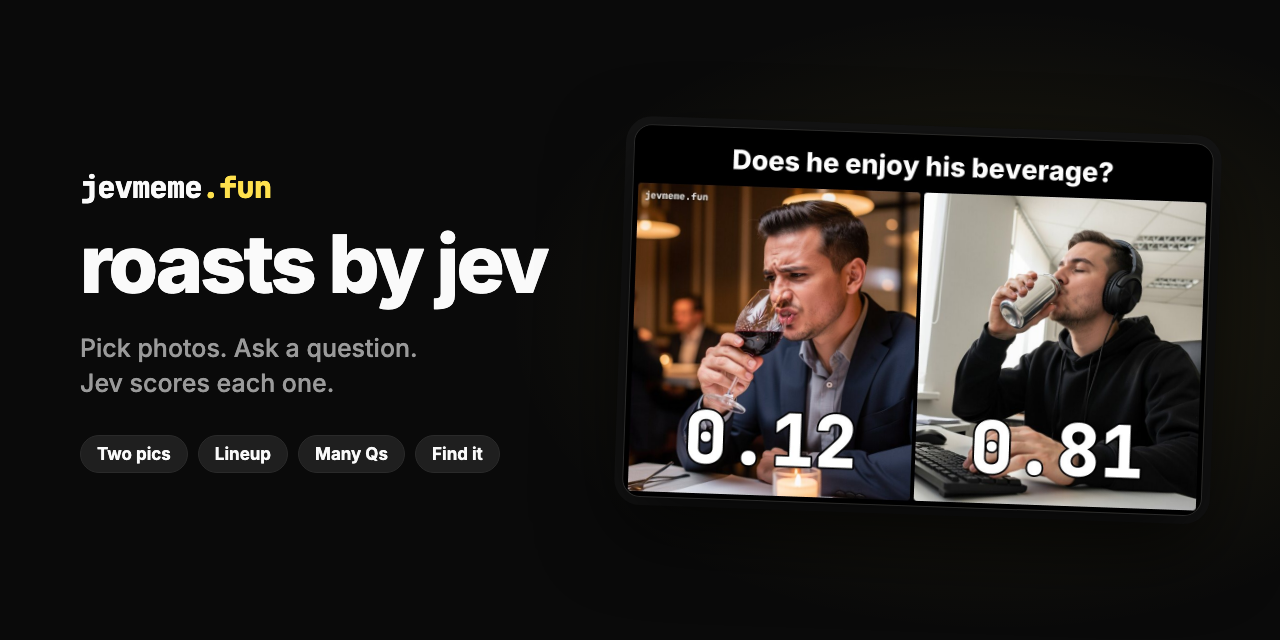
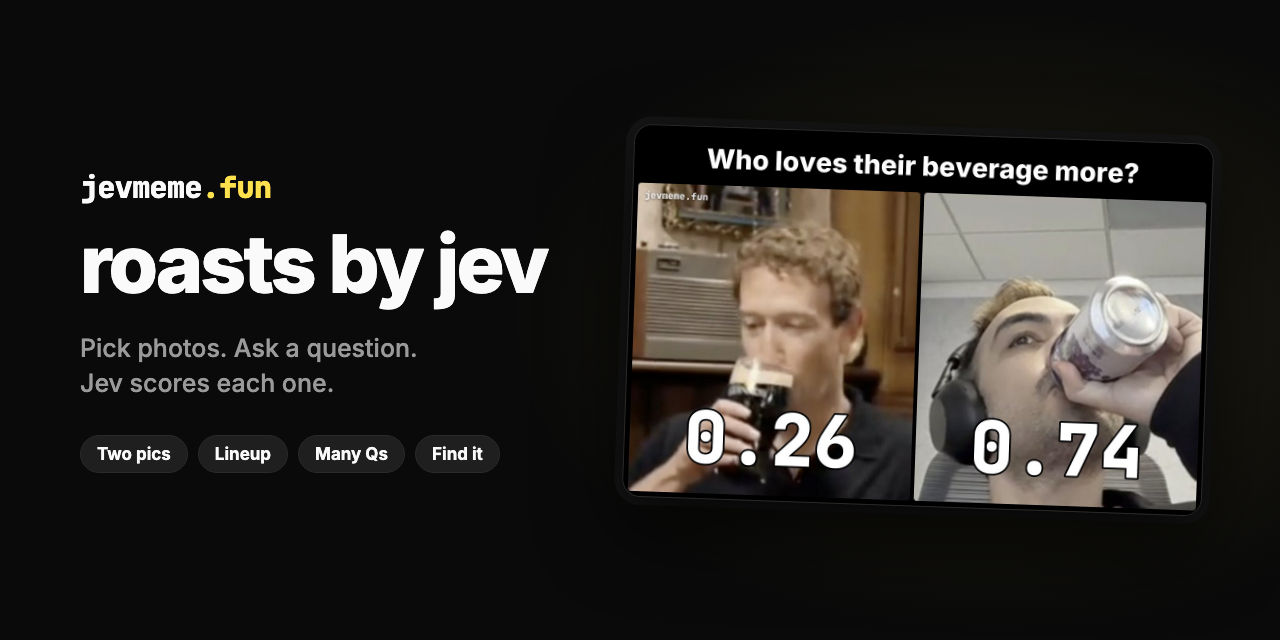
Pick one mode: compare all photos in one Choice, averaged over both orders
Real beverage photos from the original meme, comparative examples and ideas,
refreshed banner and link preview.

Changed region(s): [[0.4688, 0.2188, 0.9688, 0.8125]]

diff --git a/components/studio.tsx b/components/studio.tsx
@@ -3,7 +3,16 @@
 import Image from "next/image";
 import Link from "next/link";
 import { useEffect, useRef, useState } from "react";
-import { FORMAT_IDS, FORMATS, MAX_QUESTION_LENGTH, memeTitle, type FormatId } from "@/lib/formats";
+import {
+  defaultMode,
+  FORMAT_IDS,
+  FORMATS,
+  hasModes,
+  MAX_QUESTION_LENGTH,
+  memeTitle,
+  type FormatId,
+  type Mode,
+} from "@/lib/formats";
 import { prepPhoto } from "@/lib/prep";
 import { PRESETS, QUESTION_BANK, SAMPLE_PHOTOS, samplePath, SPOT_BANK, type Preset } from "@/lib/samples";
 import { FormatGlyph } from "./format-glyph";
@@ -25,6 +34,8 @@ export function Studio({ initial }: { initial?: Shown | "loading" }) {
   const [format, setFormat] = useState<FormatId>("versus");
   const [photos, setPhotos] = useState<(Photo | null)[]>([null, null]);
   const [questions, setQuestions] = useState<string[]>([""]);
+  // null = follow the question's wording; set once the user taps a mode.
+  const [modeChoice, setModeChoice] = useState<Mode | null>(null);
   const [picking, setPicking] = useState<number | null>(null);
   const [ideas, setIdeas] = useState<{ slot: number; list: string[] } | null>(null);
   const [busy, setBusy] = useState(false);
@@ -39,6 +50,7 @@ export function Studio({ initial }: { initial?: Shown | "loading" }) {
   const spec = FORMATS[format];
   const filled = photos.filter((p): p is Photo => p !== null);
   const asked = questions.map((q) => q.trim()).filter(Boolean);
+  const mode: Mode = modeChoice ?? defaultMode(asked[0] ?? "");
   const ready = filled.length >= spec.minImages && asked.length > 0 && !busy;
 
   function switchFormat(next: FormatId) {
@@ -49,13 +61,14 @@ export function Studio({ initial }: { initial?: Shown | "loading" }) {
     setError(null);
   }
 
-  async function create(f: FormatId, ps: Photo[], qs: string[]) {
+  async function create(f: FormatId, ps: Photo[], qs: string[], m: Mode) {
     setBusy(true);
     setError(null);
     try {
       const body = new FormData();
       body.set("format", f);
       body.set("questions", JSON.stringify(qs));
+      if (hasModes(f)) body.set("mode", m);
       for (const p of ps) {
         if (p.kind === "sample") body.append("photo", `sample:${p.id}`);
         else body.append("photo", p.blob, "photo.jpg");
@@ -80,7 +93,8 @@ export function Studio({ initial }: { initial?: Shown | "loading" }) {
     setFormat(preset.format);
     setPhotos(Array.from({ length: f.maxImages }, (_, i) => ps[i] ?? null));
     setQuestions(preset.questions);
-    void create(preset.format, ps, preset.questions);
+    setModeChoice(null);
+    void create(preset.format, ps, preset.questions, defaultMode(preset.questions[0]));
   }
 
   function setPhoto(slot: number, photo: Photo | null) {
@@ -255,7 +269,7 @@ export function Studio({ initial }: { initial?: Shown | "loading" }) {
                   onChange={(e) => setQuestion(i, e.target.value)}
                   onFocus={() => showIdeas(i)}
                   onBlur={() => setIdeas(null)}
-                  onKeyDown={(e) => e.key === "Enter" && ready && create(format, filled, asked)}
+                  onKeyDown={(e) => e.key === "Enter" && ready && create(format, filled, asked, mode)}
                   placeholder={i === 0 ? spec.placeholder : "Another question?"}
                   maxLength={MAX_QUESTION_LENGTH}
                   enterKeyHint="go"
@@ -312,13 +326,32 @@ export function Studio({ initial }: { initial?: Shown | "loading" }) {
           )}
         </div>
 
+        {hasModes(format) && (
+          <div role="radiogroup" aria-label="Scoring" className="grid grid-cols-2 gap-1 rounded-2xl bg-surface-2 p-1">
+            {(["each", "pick"] as const).map((m) => (
+              <button
+                key={m}
+                type="button"
+                role="radio"
+                aria-checked={mode === m}
+                onClick={() => setModeChoice(m)}
+                className={`h-9 rounded-xl text-sm font-semibold transition ${
+                  mode === m ? "bg-text text-bg" : "text-muted hover:text-text"
+                }`}
+              >
+                {m === "each" ? "Rate each" : "Pick one"}
+              </button>
+            ))}
+          </div>
+        )}
+
         {error && (
           <p role="alert" className="text-sm text-danger">
             {error}
           </p>
         )}
 
-        <Button variant="primary" size="lg" disabled={!ready} onClick={() => create(format, filled, asked)}>
+        <Button variant="primary" size="lg" disabled={!ready} onClick={() => create(format, filled, asked, mode)}>
           {busy ? (
             <>
               <span className="size-4 animate-spin rounded-full border-2 border-current/30 border-t-current" />

diff --git a/lib/jev.ts b/lib/jev.ts
@@ -1,6 +1,6 @@
 import "server-only";
-import { box, image, noul, TypeSafeClient } from "@typesafe-ai/sdk";
-import type { Box, FormatId } from "./formats";
+import { box, choice, image, noul, TypeSafeClient, type Image } from "@typesafe-ai/sdk";
+import type { Box, FormatId, Mode } from "./formats";
 
 // jev-preview is Jev 1.14, the only model that answers Box questions.
 export const MODEL = "jev-preview";
@@ -21,8 +21,26 @@ export type Judgment = {
   box?: { edges: Box; confidence: number | null };
 };
 
+/** One Choice across every photo; returns P(photo i) in the given order. */
+async function pickOnce(images: Image[], question: string) {
+  const name = (i: number) => `photo_${i + 1}`;
+  const res = await jev().systemOne({
+    model: MODEL,
+    state: Object.fromEntries(images.map((img, i) => [name(i), img])),
+    questions: {
+      q: choice(question, Object.fromEntries(images.map((_, i) => [name(i), `The one in \`${name(i)}\`.`]))),
+    },
+  });
+  return { model: res.model, probs: images.map((_, i) => res.answers.q.probabilities[name(i)] ?? 0) };
+}
+
 /** Ask Jev about JPEG/PNG bytes; the shape of the answer depends on the format. */
-export async function judge(format: FormatId, photos: Uint8Array[], questions: string[]): Promise<Judgment> {
+export async function judge(
+  format: FormatId,
+  photos: Uint8Array[],
+  questions: string[],
+  mode: Mode = "each",
+): Promise<Judgment> {
   const images = photos.map((bytes) => image(bytes));
 
   if (format === "spot") {
@@ -44,7 +62,15 @@ export async function judge(format: FormatId, photos: Uint8Array[], questions: s
     return { model: res.model, scores: questions.map((_, i) => res.answers[`q${i}`].noul) };
   }
 
-  // versus/lineup: judge each photo on its own so one can't sway another.
+  if (mode === "pick") {
+    // Jev leans toward photos by position, so ask in both orders and average.
+    const reversed = [...images].reverse();
+    const [fwd, rev] = await Promise.all([pickOnce(images, questions[0]), pickOnce(reversed, questions[0])]);
+    const n = images.length;
+    return { model: fwd.model, scores: fwd.probs.map((p, i) => (p + rev.probs[n - 1 - i]) / 2) };
+  }
+
+  // versus/lineup "each": judge each photo on its own so one can't sway another.
   const results = await Promise.all(
     images.map((photo) =>
       jev().systemOne({

diff --git a/lib/samples.ts b/lib/samples.ts
@@ -1,9 +1,10 @@
 import type { FormatId } from "./formats";
 
-// Bundled photos (public/samples, made by scripts/gen-samples.mts).
+// Bundled photos (public/samples). Most come from scripts/gen-samples.mts; the
+// beverage pair is cropped from the original meme that inspired this app.
 export const SAMPLE_PHOTOS = [
-  { id: "soda-guy", alt: "Man chugging a soda" },
-  { id: "wine-sip", alt: "Man sipping wine" },
+  { id: "stout-sip", alt: "Man sipping a stout" },
+  { id: "can-chug", alt: "Man chugging a can" },
   { id: "dog-ball", alt: "Dog with a ball" },
   { id: "raccoon-trash", alt: "Raccoon in a trash can" },
   { id: "hotdog", alt: "Hot dog" },
@@ -34,13 +35,17 @@ export type Preset = {
 
 // One-tap examples shown first on the home page.
 export const PRESETS: Preset[] = [
-  { format: "versus", photos: ["wine-sip", "soda-guy"], questions: ["Does he enjoy his beverage?"] },
+  { format: "versus", photos: ["stout-sip", "can-chug"], questions: ["Who loves their beverage more?"] },
   { format: "versus", photos: ["raccoon-trash", "dog-ball"], questions: ["Is this a good boy?"] },
-  { format: "versus", photos: ["hotdog", "taco"], questions: ["Is this a sandwich?"] },
+  { format: "versus", photos: ["hotdog", "taco"], questions: ["Which one is more of a sandwich?"] },
   { format: "versus", photos: ["ladder", "harness"], questions: ["Is this OSHA compliant?"] },
   { format: "versus", photos: ["sneaker", "shoe-cake"], questions: ["Is this cake?"] },
   { format: "versus", photos: ["cat-keyboard", "dog-tie"], questions: ["Ready for Monday?"] },
-  { format: "lineup", photos: ["goose", "duckling", "sloth", "raccoon-trash"], questions: ["Would this win a fight?"] },
+  {
+    format: "lineup",
+    photos: ["goose", "duckling", "sloth", "raccoon-trash"],
+    questions: ["Which would win in a fight?"],
+  },
   {
     format: "vibes",
     photos: ["raccoon-trash"],
@@ -51,6 +56,11 @@ export const PRESETS: Preset[] = [
 
 // Prompts for "Need an idea?".
 export const QUESTION_BANK: string[] = [
+  "Who loves their beverage more?",
+  "Which would win in a fight?",
+  "Who has more aura?",
+  "Which one is more of a sandwich?",
+  "Who is more likely to text back?",
   "Does he enjoy his beverage?",
   "Is this a good boy?",
   "Is this a sandwich?",

diff --git a/app/api/meme/route.ts b/app/api/meme/route.ts
@@ -1,6 +1,6 @@
 import { createHash } from "node:crypto";
 import { APIError } from "@typesafe-ai/sdk";
-import { FORMATS, MAX_QUESTION_LENGTH, type FormatId, type Meme, type MemeImage } from "@/lib/formats";
+import { FORMATS, hasModes, MAX_QUESTION_LENGTH, type FormatId, type Meme, type MemeImage } from "@/lib/formats";
 import { judge, MODEL } from "@/lib/jev";
 import { loadPhoto, photoSize } from "@/lib/photos";
 import { SAMPLE_IDS, samplePath } from "@/lib/samples";
@@ -52,6 +52,8 @@ export async function POST(request: Request) {
   if (questions.length > format.maxQuestions) return fail("Too many questions.");
   if (questions.some((q) => q.length > MAX_QUESTION_LENGTH)) return fail("Keep it shorter.");
 
+  const mode = hasModes(format.id) && form.get("mode") === "pick" ? "pick" : undefined;
+
   const entries = form.getAll("photo");
   if (entries.length < format.minImages || entries.length > format.maxImages) return fail("Wrong number of pics.");
   const photos: Photo[] = [];
@@ -61,12 +63,19 @@ export async function POST(request: Request) {
     photos.push(photo);
   }
 
-  const id = sha(JSON.stringify([format.id, questions, MODEL, photos.map((p) => p.key)])).slice(0, 12);
+  // "each" memes keep the original key shape so their ids stay stable.
+  const key = [format.id, questions, MODEL, photos.map((p) => p.key), ...(mode ? [mode] : [])];
+  const id = sha(JSON.stringify(key)).slice(0, 12);
   if (await memeExists(id)) return Response.json({ id });
 
   let judgment;
   try {
-    judgment = await judge(format.id, photos.map((p) => p.bytes), questions);
+    judgment = await judge(
+      format.id,
+      photos.map((p) => p.bytes),
+      questions,
+      mode,
+    );
   } catch (error) {
     console.error("jev failed", error);
     if (error instanceof APIError && error.status === 400) return fail("Jev can't read that pic.");
@@ -86,6 +95,7 @@ export async function POST(request: Request) {
     id,
     format: format.id,
     questions,
+    mode,
     images,
     scores: judgment.scores,
     box: judgment.box,

diff --git a/lib/formats.ts b/lib/formats.ts
@@ -27,7 +27,7 @@ export const FORMATS: Record<FormatId, Format> = {
     minImages: 3,
     maxImages: 4,
     maxQuestions: 1,
-    placeholder: "Would this win a fight?",
+    placeholder: "Which would win in a fight?",
   },
   vibes: {
     id: "vibes",
@@ -51,6 +51,19 @@ export const FORMAT_IDS = Object.keys(FORMATS) as FormatId[];
 
 export const MAX_QUESTION_LENGTH = 120;
 
+/** Multi-photo memes either rate each photo alone or make Jev pick between them. */
+export type Mode = "each" | "pick";
+
+export const hasModes = (format: FormatId) => format === "versus" || format === "lineup";
+
+/** "Who loves their beverage more?" reads as a pick; "Is this cake?" reads as rate-each. */
+export function defaultMode(question: string): Mode {
+  const q = question.trim().toLowerCase();
+  if (/^(who|which|whose)\b/.test(q)) return "pick";
+  if (/\b(more|less|better|worse|best|worst|most|least)\b|\w+er than\b/.test(q)) return "pick";
+  return "each";
+}
+
 export type MemeImage = { url: string; width: number; height: number };
 
 export type Box = { top: number; bottom: number; left: number; right: number };
@@ -62,7 +75,9 @@ export type Meme = {
   format: FormatId;
   questions: string[];
   images: MemeImage[];
-  /** versus/lineup: one score per image. vibes: one score per question. */
+  /** versus/lineup only; absent means "each". */
+  mode?: Mode;
+  /** versus/lineup: one score per image ("pick" scores sum to 1). vibes: one score per question. */
   scores: number[];
   /** spot only. */
   box?: { edges: Box; confidence: number | null };

diff --git a/assets/brand/banner.html b/assets/brand/banner.html
@@ -129,7 +129,7 @@
         </ul>
       </div>
 
-      <!-- A real meme from the app: jevmeme.fun/m/-y0r88XnjcRf -->
+      <!-- A real meme from the app: jevmeme.fun/m/5x6pgyLCOe3e -->
       <img class="meme" src="meme.jpg" alt="" />
     </div>
   </body>

diff --git a/README.md b/README.md
@@ -1,5 +1,5 @@
 <p align="center">
-  <img src="assets/brand/banner.png" alt="jevmeme.fun, roasts by jev. A two-photo meme asks 'Does he enjoy his beverage?': the man sniffing red wine scores 0.12, the man chugging a can at his desk scores 0.81." width="900">
+  <img src="assets/brand/banner.png" alt="jevmeme.fun, roasts by jev. A two-photo meme asks 'Who loves their beverage more?': the man sipping a stout scores 0.26, the man chugging a can scores 0.74." width="900">
 </p>
 
 <p align="center">

diff --git a/assets/brand/README.md b/assets/brand/README.md
@@ -6,7 +6,7 @@ preview. `banner.html` is the source. It uses the same tokens as
 needs a network connection.
 
 `meme.jpg` is a real meme from the app:
-[jevmeme.fun/m/-y0r88XnjcRf](https://jevmeme.fun/m/-y0r88XnjcRf).
+[jevmeme.fun/m/5x6pgyLCOe3e](https://jevmeme.fun/m/5x6pgyLCOe3e).
 
 ```bash
 node assets/brand/render.mjs   # banner.html → assets/brand/banner.png
